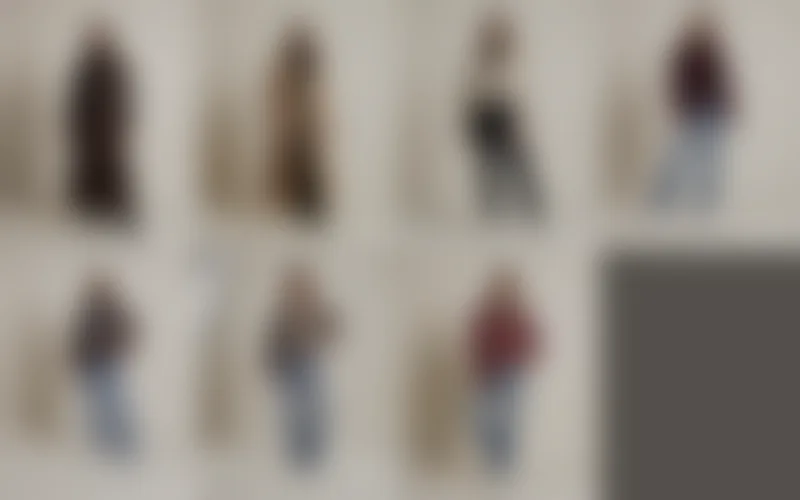
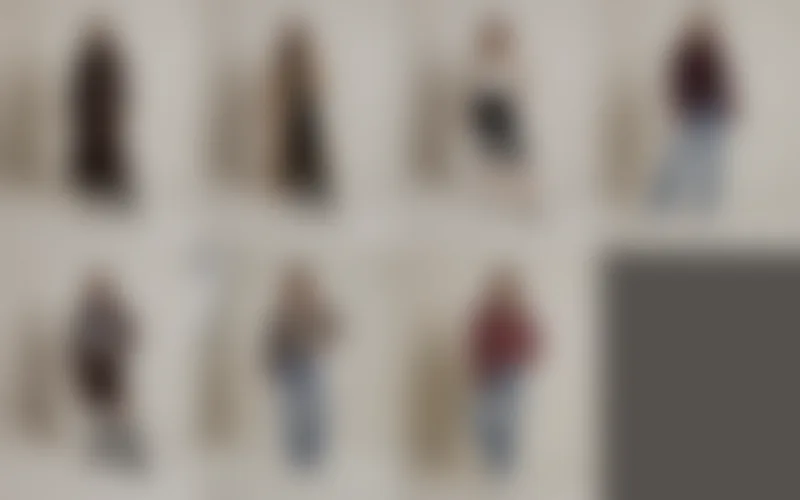
Nouvelles photos de couverture des deux trenchs (L'éternel 01 et 02)
Remplace la couverture du trench marron (pantalon noir, escarpins) et du
trench camel (pantalon noir, escarpins). Nouveaux fichiers *-cover.webp ;
le fond flouté de la section précommande est régénéré avec les nouvelles
couvertures (?v=2 pour contourner le cache).

Claude-Session: https://claude.ai/code/session_015r4edGBA7MqmUutWqT53ds

diff --git a/assets/js/products-data.js b/assets/js/products-data.js
@@ -19,7 +19,7 @@ const PRODUCTS = [
       "Coton résistant, doublure satinée",
     ],
     images: [
-      "assets/img/fitting-tryons/trench-chocolat-m.webp",
+      "assets/img/fitting-tryons/trench-chocolat-cover.webp",
       { src: "assets/img/products/trench-chocolat-front.png", fit: "contain" },
       { src: "assets/img/products/trench-chocolat-back.png", fit: "contain" },
     ],
@@ -43,7 +43,7 @@ const PRODUCTS = [
       "Coton gabardine",
     ],
     images: [
-      "assets/img/fitting-tryons/trench-beige-m.webp",
+      "assets/img/fitting-tryons/trench-beige-cover.webp",
       { src: "assets/img/products/trench-beige-front.png", fit: "contain" },
       { src: "assets/img/products/trench-beige-back.png", fit: "contain" },
     ],

diff --git a/assets/css/style.css b/assets/css/style.css
@@ -802,7 +802,7 @@ a { color: inherit; }
 .waitlist-preview-grid {
   position: absolute;
   inset: 0;
-  background: #1c1917 url("../img/brand/waitlist-bg.webp") center / 100% 100% no-repeat;
+  background: #1c1917 url("../img/brand/waitlist-bg.webp?v=2") center / 100% 100% no-repeat;
 }
 
 .waitlist-scrim {
